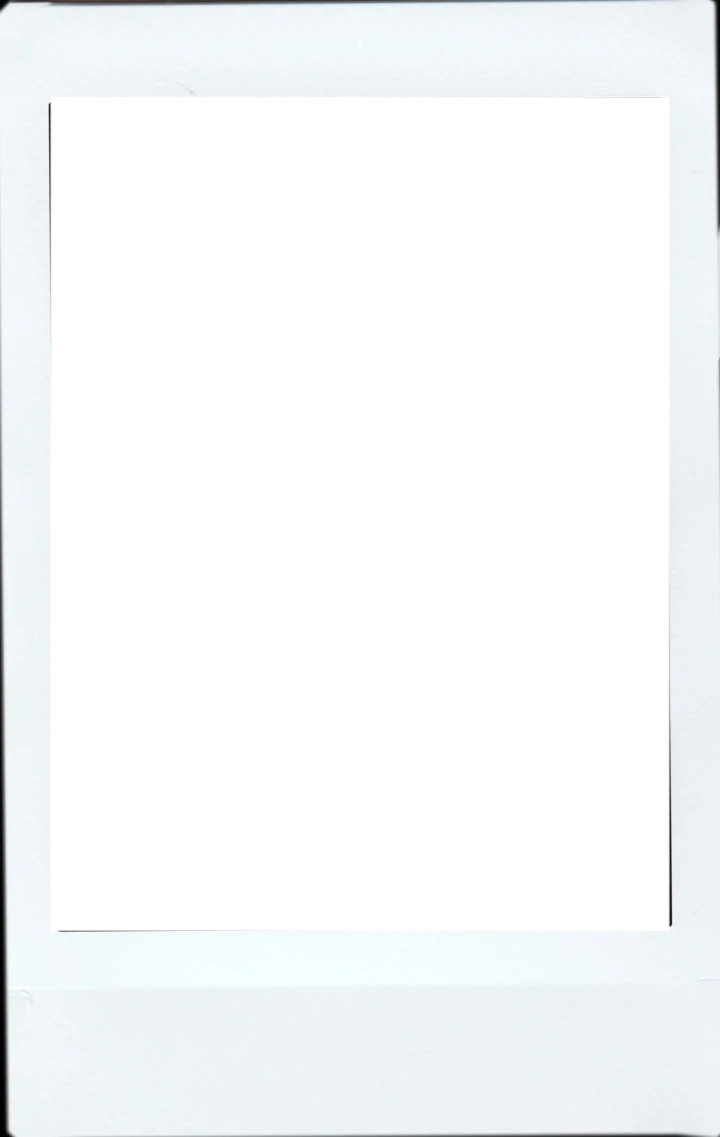
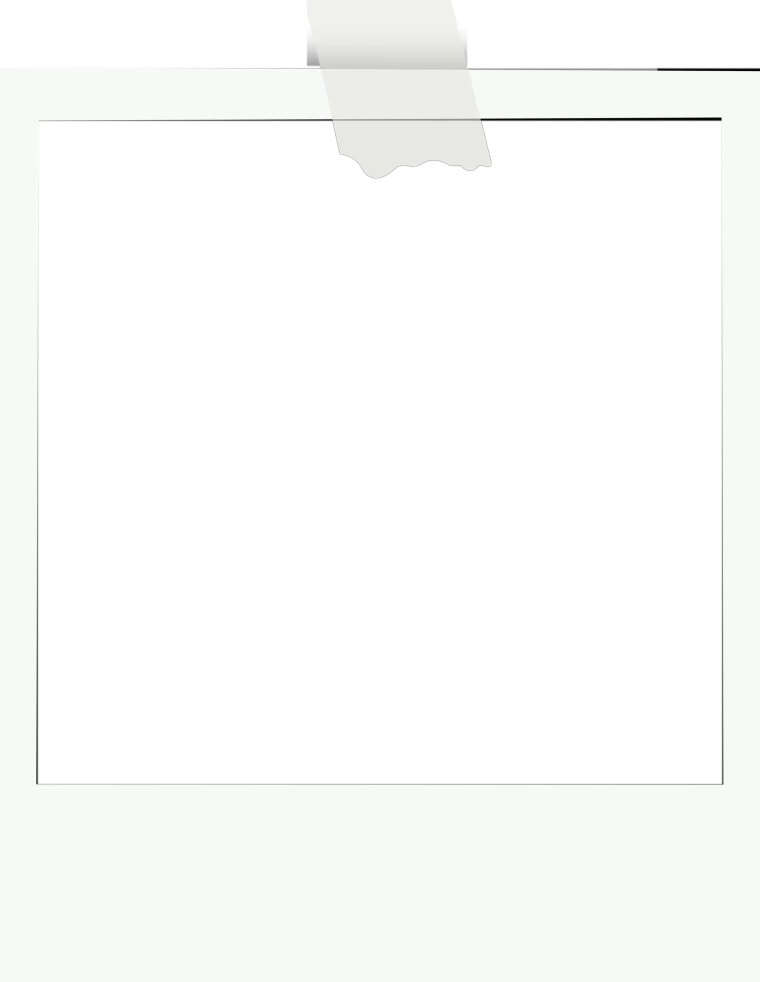
Ski page: taped square polaroid frame from the user's template

diff --git a/assets/css/ski.css b/assets/css/ski.css
@@ -448,3 +448,12 @@ main>section#price{background:linear-gradient(180deg,#ECF6FF,#DCEDFF)!important}
 .sk-stages b{font-size:18px!important}
 .sk-stages span{font-size:14.5px!important}
 @media (max-width:1000px){.sk-rgrid{grid-template-columns:minmax(0,1fr)!important}}
+
+/* полароиды: квадратная рамка со скотчем из шаблона, пины не нужны */
+.sk-pol{aspect-ratio:1775/2295!important}
+.sk-ph{left:4.6%!important;top:12%!important;width:90.8%!important;height:68.2%!important}
+.sk-pol figcaption{top:80.6%!important;bottom:1.5%!important;left:7%!important;right:7%!important}
+.sk-pin{display:none!important}
+.sk-pol strong{font-size:clamp(15px,1.4vw,20px)!important}
+.sk-pol span{font-size:clamp(11.5px,.95vw,13.5px)!important}
+.sk-pol .sk-tag{font-size:10.5px!important}
